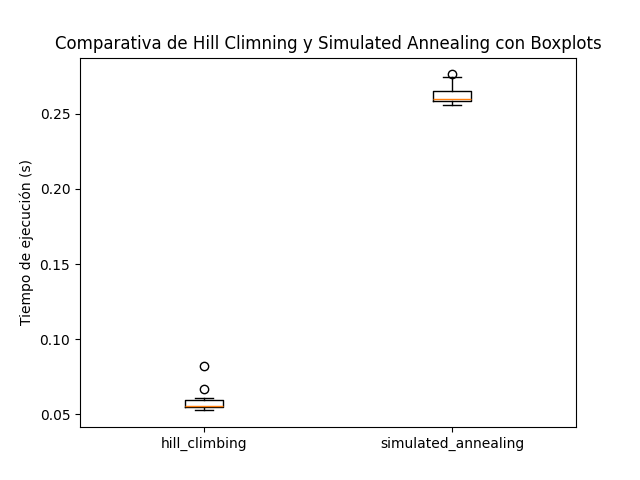
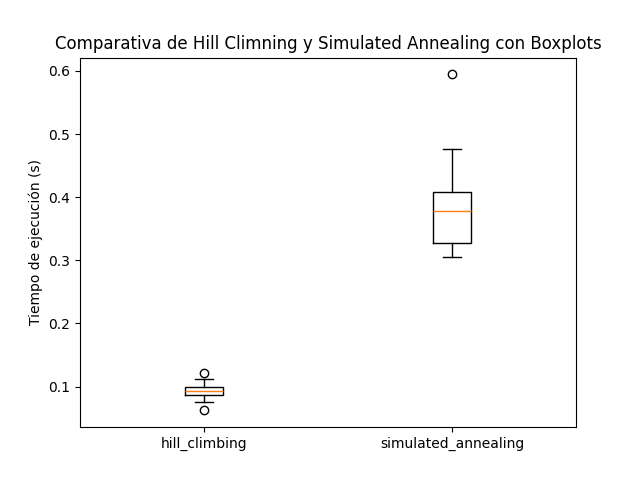
doble heuristic

diff --git a/state_bicing.py b/state_bicing.py
@@ -160,11 +160,15 @@ class EstadoBicing(object):
         balance_estaciones = self.calcular_balance_estaciones()
         return balance_rutas + balance_estaciones
 
-    def heuristic(self) -> float:
+    def heuristic(self, coste_transporte: bool) -> float:
         self.__restaurar_estaciones()
         for furgoneta in self.lista_furgonetas:
             self.realizar_ruta(furgoneta.id)
-        return self.calcular_balance_total()
+        
+        if coste_transporte:
+            return self.calcular_balance_total()
+        else:
+            return self.calcular_balance_estaciones()
         
     def generate_actions(self) -> Generator:
         # Creamos un set() para aseguramos de que dos furgonetas no carguen en la misma estación
@@ -274,9 +278,9 @@ class EstadoBicing(object):
         else:
             str_balances += f"\n{'*'*35 + ' [ SOLUCIÓN FINAL ] ' + '*'*35}\n"
         
-        str_balances += f"\nBALANCE RUTAS: {self.calcular_balance_rutas()}\n" + \
+        str_balances += f"\nBALANCE RUTAS: {self.calcular_balance_rutas() if params.coste_transporte else 'NONE'}\n" + \
                     f"BALANCE ESTACIONES: {self.calcular_balance_estaciones()}\n" + \
-                        f"BALANCE TOTAL: {self.calcular_balance_total()}"
+                        f"BALANCE TOTAL: {self.calcular_balance_total() if params.coste_transporte else self.calcular_balance_estaciones()}"
         
         print(str_balances + self.__str__())
 

diff --git a/main.py b/main.py
@@ -97,7 +97,7 @@ def generate_initial_state(opt: int = 0, iterations: int = 100, semilla: Union[i
     # NIVEL DE OPTIMIZACIÓ 3: CREAMOS LA SOLUCIÓN COMPROBANDO EL HEURÍSTICO DE DIFERENTES ESTADOS
     elif opt == 3:
         random_initial_states_opt1 = [generate_initial_state(opt = 1) for _ in range(iterations)]
-        random_initial_states_opt1.sort(key=lambda state: state.heuristic(), reverse=True)
+        random_initial_states_opt1.sort(key=lambda state: state.heuristic(coste_transporte=params.coste_transporte), reverse=True)
         return random_initial_states_opt1[0]
                 
     state = EstadoBicing(lista_furgonetas=lista_furgonetas)
@@ -147,8 +147,8 @@ if __name__ == '__main__':
 ##############################################################################################################################################
 
     # Experimento
-    initial_state: EstadoBicing = generate_initial_state(opt = 3, iterations=1000)
-    initial_state.heuristic()
+    initial_state: EstadoBicing = generate_initial_state(opt = 0, iterations=1000)
+    initial_state.heuristic(coste_transporte=params.coste_transporte)
     initial_state.print_state(inicial=True)
     initial_state.visualize_state(manhattan = True)
 

diff --git a/parameters_bicing.py b/parameters_bicing.py
@@ -1,17 +1,18 @@
 from estaciones_bicing import Estaciones, Estacion
 
 class Parameters:
-	def __init__(self, n_estaciones: int, n_bicicletas: int, n_furgonetas: int, seed: int) -> None:
+	def __init__(self, n_estaciones: int, n_bicicletas: int, n_furgonetas: int, seed: int, coste_transporte: bool = True) -> None:
 		assert n_estaciones > n_furgonetas, "El número de estaciones debe ser mayor que el número de furgonetas"
 		self.n_estaciones = n_estaciones
 		self.n_bicicletas = n_bicicletas
 		self.n_furgonetas = n_furgonetas
-		self.estaciones: list[Estacion] = Estaciones(num_estaciones=n_estaciones, num_bicicletas=n_bicicletas, semilla=seed).lista_estaciones
+		self.coste_transporte = coste_transporte
 		self.seed = seed
+		self.estaciones: list[Estacion] = Estaciones(num_estaciones=n_estaciones, num_bicicletas=n_bicicletas, semilla=seed).lista_estaciones
 
 	def __repr__(self) -> str:
 		return f"Params(n_estaciones={self.n_estaciones}, n_bicicletas={self.n_bicicletas}, n_furgonetas={self.n_furgonetas}, seed={self.seed})"
 
-params = Parameters(n_estaciones=25, n_bicicletas=1250, n_furgonetas=5, seed=42)
+params = Parameters(n_estaciones=25, n_bicicletas=1250, n_furgonetas=5, seed=42, coste_transporte=False)
 
 

diff --git a/problem_bicing.py b/problem_bicing.py
@@ -1,6 +1,7 @@
 from aima.search import Problem
 from state_bicing import EstadoBicing
 from typing import Generator
+from parameters_bicing import params
 
 
 class ProblemaBicing(Problem):
@@ -19,7 +20,7 @@ class ProblemaBicing(Problem):
     
     def value(self, state: EstadoBicing) -> float:
         self.solutions_checked += 1
-        return state.heuristic()
+        return state.heuristic(coste_transporte=params.coste_transporte)
     
     def goal_test(self, state: EstadoBicing) -> bool:
         return False
